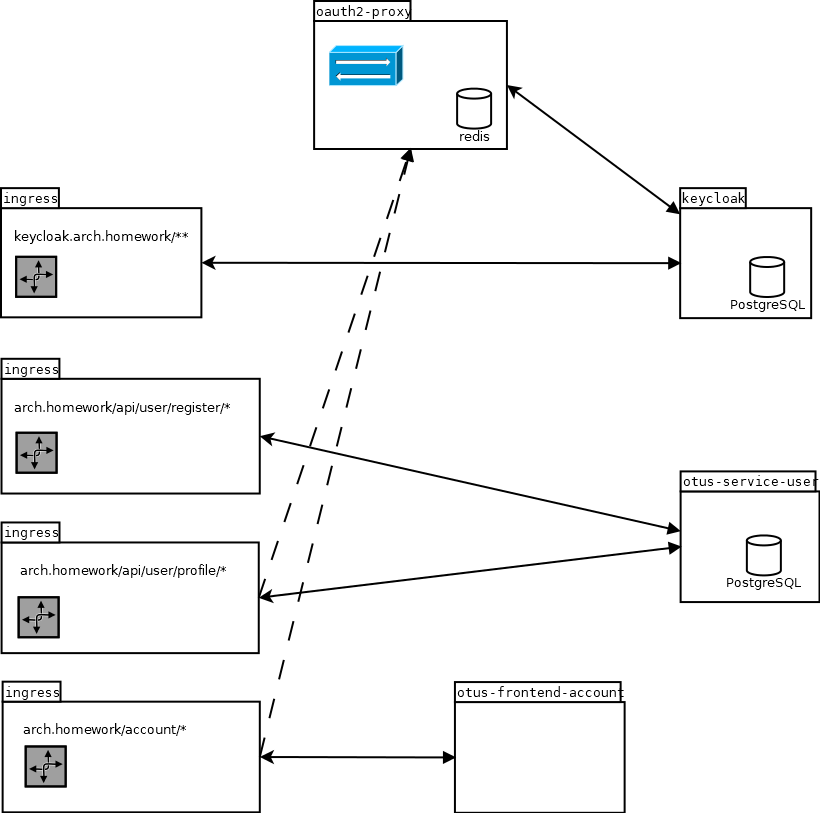
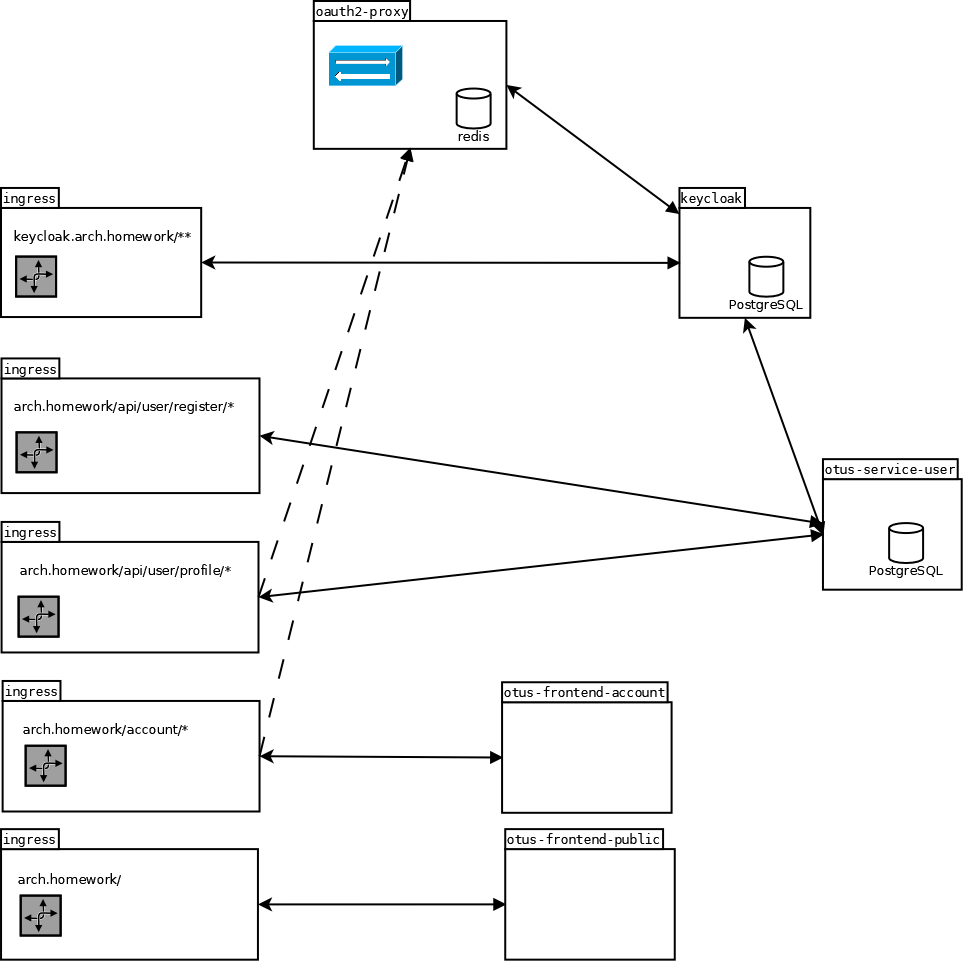
Diagram, links updated

diff --git a/README.md b/README.md
@@ -1,3 +1,8 @@
+## Сервисы
+- [otus-service-user](https://github.com/auwerk/otus-service-user)
+- [otus-frontend-account](https://github.com/auwerk/otus-frontend-account)
+- [otus-frontend-public](https://github.com/auwerk/otus-frontend-public)
+
 ## Настройка /etc/hosts
 Добавить записи:
 - 127.0.0.1 arch.homework
@@ -52,4 +57,6 @@ kubectl apply -f ./service-user/ingress.yaml
 ```shell
 kubectl apply -f ./frontend-account/resources.yaml
 kubectl apply -f ./frontend-account/ingress.yaml
+kubectl apply -f ./frontend-public/resources.yaml
+kubectl apply -f ./frontend-public/ingress.yaml
 ```
